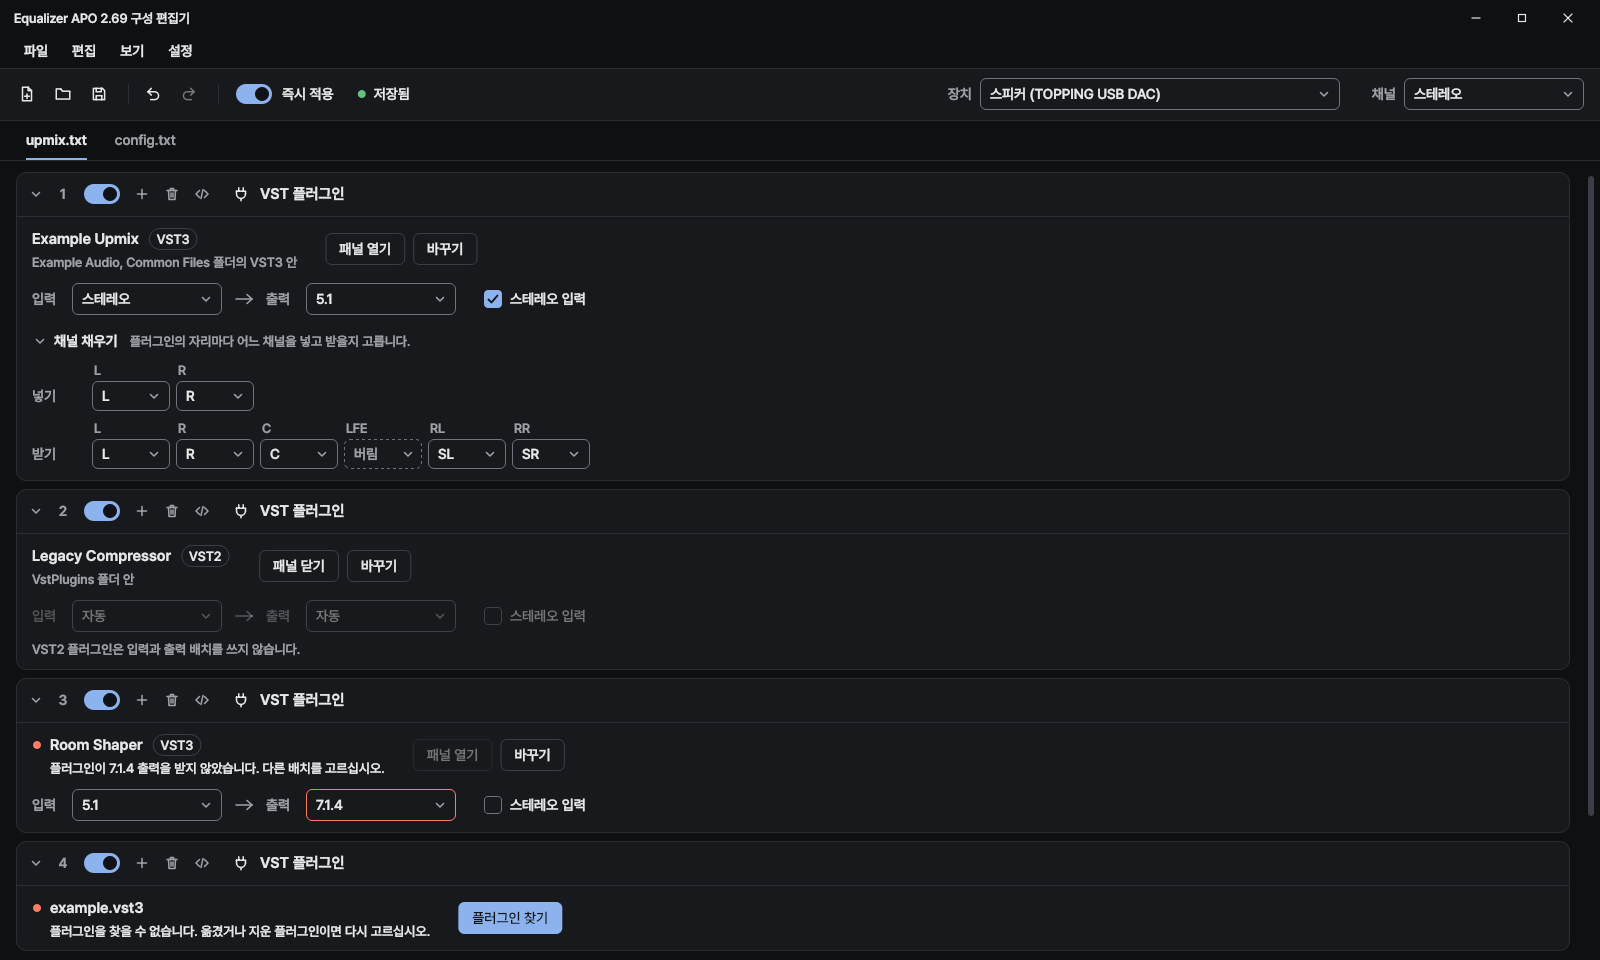
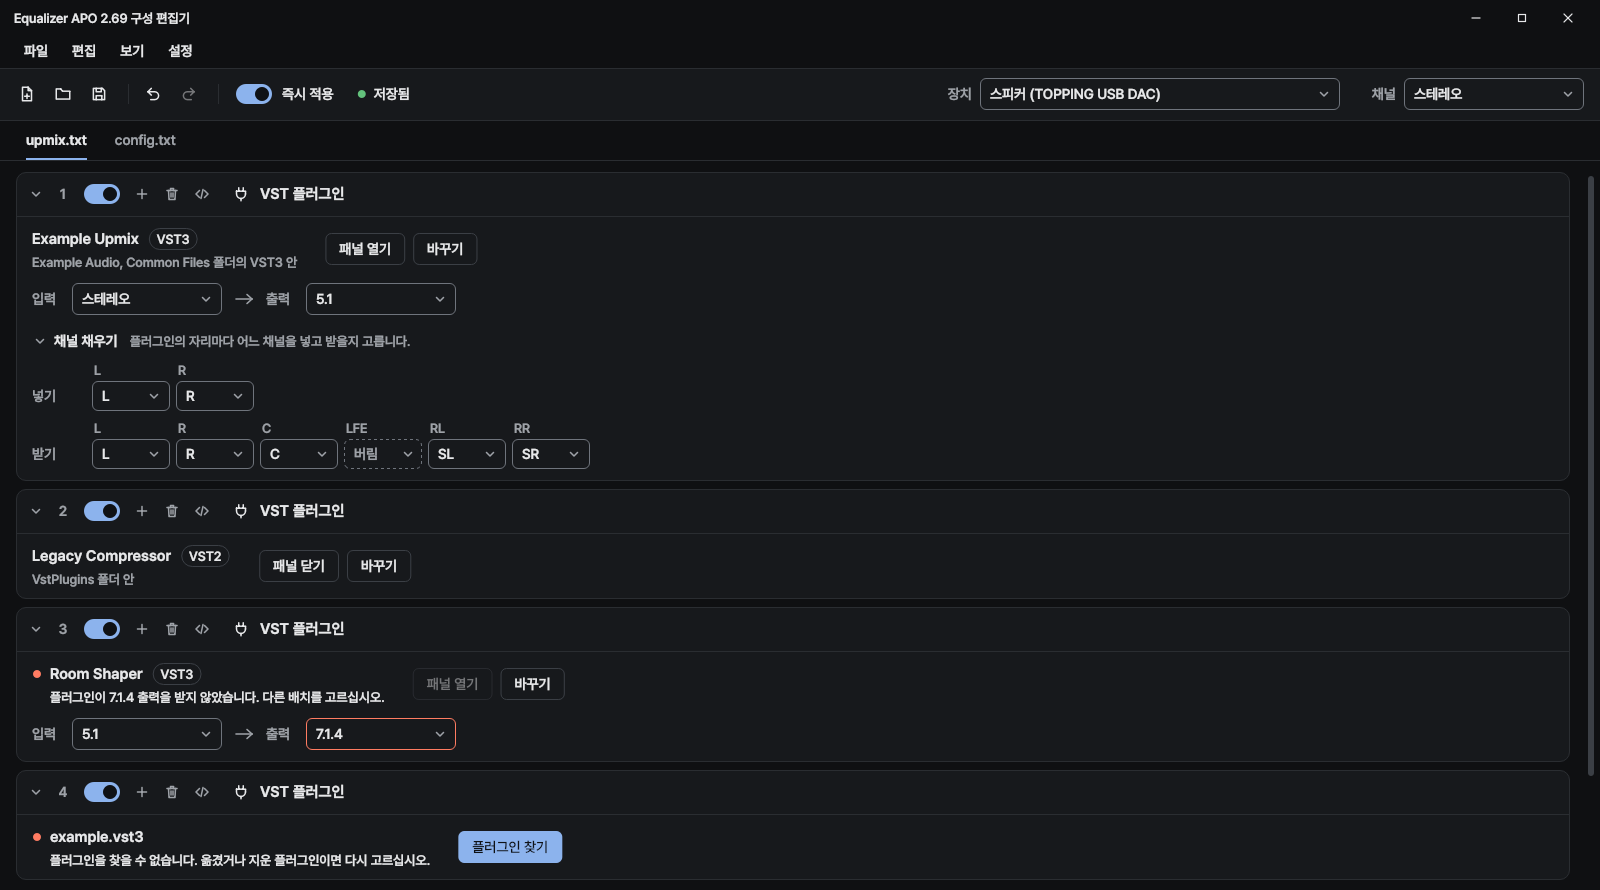
Soft mockup r1: drop stereo input and VST2 layouts, name the unknown line

diff --git a/softmock.cpp b/softmock.cpp
@@ -1239,12 +1239,7 @@ static void layoutRow(C& g, QPointF pos, const QString& in, const QString& out, 
 	g.p.restore();
 	x += 40;
 	g.select(QRectF(x, pos.y(), 150, 32), out, st == Disabled ? Disabled : outSt);
-	x += 150 + 28;
-	g.p.save();
-	if (st == Disabled)
-		g.p.setOpacity(0.45);
-	g.checkbox(QPointF(x, pos.y() + 7), stereoInput, QStringLiteral("스테레오 입력"));
-	g.p.restore();
+	Q_UNUSED(stereoInput);
 }
 
 static void sceneVst(C& g)
@@ -1285,7 +1280,7 @@ static void sceneVst(C& g)
 	}
 	// 2: a VST2 plugin: no layouts to choose
 	{
-		const QRectF body = card(g, QRectF(x0, y, w, 181), { 2, "plug", QStringLiteral("VST 플러그인"), true, Rest, true, {} });
+		const QRectF body = card(g, QRectF(x0, y, w, 110), { 2, "plug", QStringLiteral("VST 플러그인"), true, Rest, true, {} });
 		const QString name = QStringLiteral("Legacy Compressor");
 		const QString where = QStringLiteral("VstPlugins 폴더 안");
 		g.text(QRectF(body.x(), body.y() + 10, 600, 24), name, 15, 600, c.text);
@@ -1294,9 +1289,7 @@ static void sceneVst(C& g)
 		double x = body.x() + g.textW(name, 15, 600) + 60 + 28;
 		x += g.button(QPointF(x, body.y() + 16), QStringLiteral("패널 닫기")) + 8;
 		g.button(QPointF(x, body.y() + 16), QStringLiteral("바꾸기"));
-		layoutRow(g, QPointF(body.x(), body.y() + 66), QStringLiteral("자동"), QStringLiteral("자동"), Disabled, Rest, false);
-		g.text(QRectF(body.x(), body.y() + 104, 800, 22), QStringLiteral("VST2 플러그인은 입력과 출력 배치를 쓰지 않습니다."), 13, 500, c.muted);
-		y += 181 + 8;
+		y += 110 + 8;
 	}
 	// 3: the plugin refused the asked layout
 	{
@@ -1325,7 +1318,7 @@ static void sceneVst(C& g)
 		g.button(QPointF(x, body.y() + 16), QStringLiteral("플러그인 찾기"), 1);
 		y += 110 + 8;
 	}
-	g.box(QRectF(1600 - 12, 176, 6, 640), c.lineStrong, QColor(), 3);
+	g.box(QRectF(1600 - 12, 176, 6, 600), c.lineStrong, QColor(), 3);
 }
 
 // ---- scene E: the command-line family (If, Eval, raw lines, source editing) --
@@ -1415,16 +1408,24 @@ static void sceneCommands(C& g)
 			QStringLiteral("regexSearch(\"TOPPING\", deviceName) and sampleRate >= 96000"));
 		y += 101 + 8;
 	}
-	// 8: a line the editor has no card for
+	// 8: a line that is no command: it changes nothing in the sound
 	{
-		const QRectF body = card(g, QRectF(x0, y, w, 125), { 8, "lines", QStringLiteral("원문 줄"), true, Rest, true, {} });
-		monoField(g, QRectF(body.x(), body.y() + 12, 760, 32), QStringLiteral("Loudness: Reference 80 ReferenceOffset 5 Attenuation 0.5"));
-		g.text(QRectF(body.x() + 2, body.y() + 50, 900, 22), QStringLiteral("이 줄은 카드로 표시할 수 없어 적힌 그대로 적용합니다."), 13, 500, c.muted);
+		CardOpt o{ 8, "lines", QStringLiteral("알 수 없는 명령"), true, Rest, true, {} };
+		o.skipped = true;
+		const QRectF body = card(g, QRectF(x0, y, w, 125), o);
+		monoField(g, QRectF(body.x(), body.y() + 12, 760, 32), QStringLiteral("Fliter: ON PK Fc 250 Hz Gain -4 dB Q 2"));
+		g.text(QRectF(body.x() + 2, body.y() + 50, 900, 22), QStringLiteral("이 줄은 오디오에 반영되지 않습니다."), 13, 500, c.text);
 		y += 125 + 8;
+	}
+	// 8b: a command the sound does follow but that has no card of its own yet
+	{
+		const QRectF body = card(g, QRectF(x0, y, w, 101), { 9, "lines", QStringLiteral("NewChannel"), true, Rest, true, {} });
+		monoField(g, QRectF(body.x(), body.y() + 12, 760, 32), QStringLiteral("NewChannel: VSL VSR"));
+		y += 101 + 8;
 	}
 	// 9: a filter card with its source open (the </> head button is held)
 	{
-		CardOpt o{ 9, "pk", QStringLiteral("피킹 필터"), true, Selected, true };
+		CardOpt o{ 10, "pk", QStringLiteral("피킹 필터"), true, Selected, true };
 		o.editing = true;
 		const QRectF body = card(g, QRectF(x0, y, w, 145), o);
 		monoField(g, QRectF(body.x(), body.y() + 12, 760, 32), QStringLiteral("Filter: ON PK Fc 250 Hz Gain -4 dB Q 2"), Focus, true);
@@ -1435,7 +1436,7 @@ static void sceneCommands(C& g)
 	}
 	// 10: a comment
 	{
-		const QRectF body = card(g, QRectF(x0, y, w, 101), { 10, "note", QStringLiteral("주석"), true, Rest, true, {} });
+		const QRectF body = card(g, QRectF(x0, y, w, 101), { 11, "note", QStringLiteral("주석"), true, Rest, true, {} });
 		g.field(QRectF(body.x(), body.y() + 12, 760, 32), QStringLiteral("여기부터 서라운드 업믹스"));
 		y += 101 + 8;
 	}
@@ -1468,7 +1469,7 @@ int main(int argc, char** argv)
 	QDir().mkpath(args[2]);
 	struct Scene { const char* name; std::function<void(C&)> fn; double h; };
 	const QList<Scene> scenes = { { "main", sceneMain, 1000 }, { "files", sceneFiles, 1000 }, { "parts", sceneParts, 1000 },
-								  { "vst", sceneVst, 960 }, { "commands", sceneCommands, 1120 } };
+								  { "vst", sceneVst, 890 }, { "commands", sceneCommands, 1230 } };
 	int failures = 0;
 	for (int mode = 0; mode < 2; mode++)
 	{
